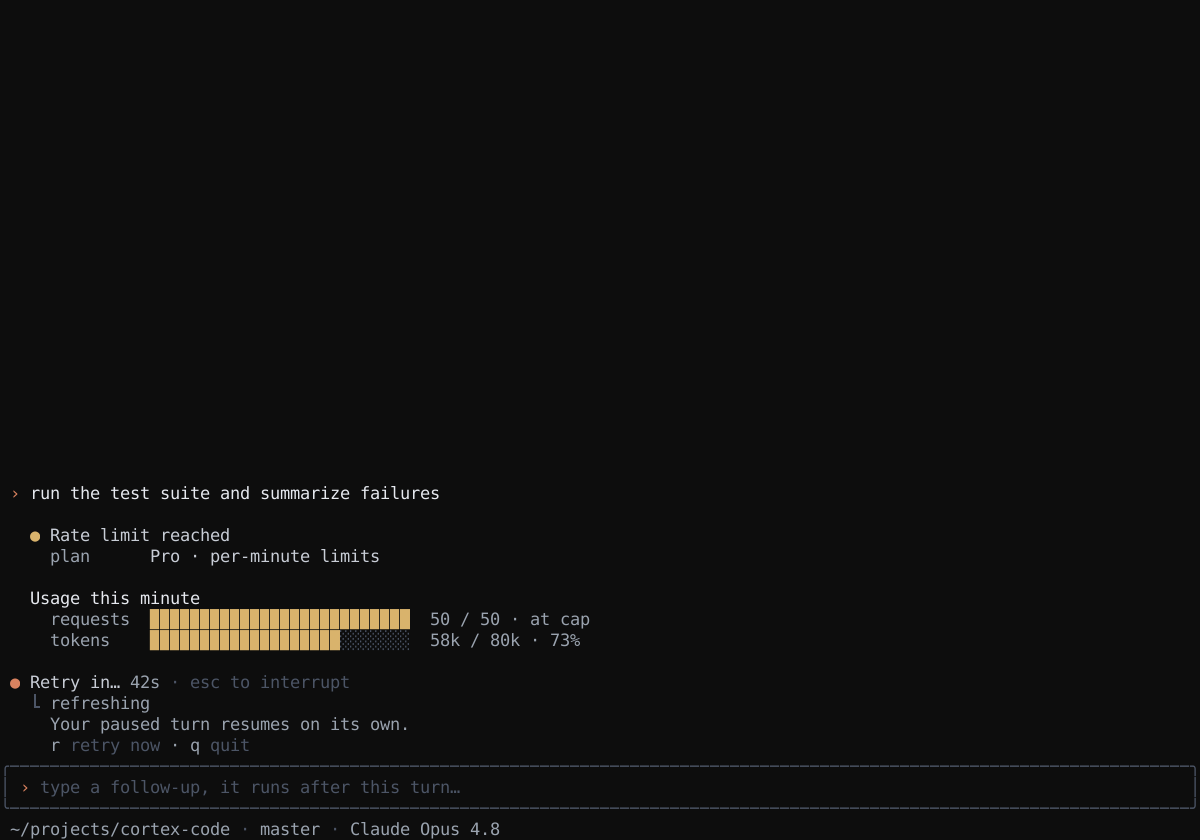
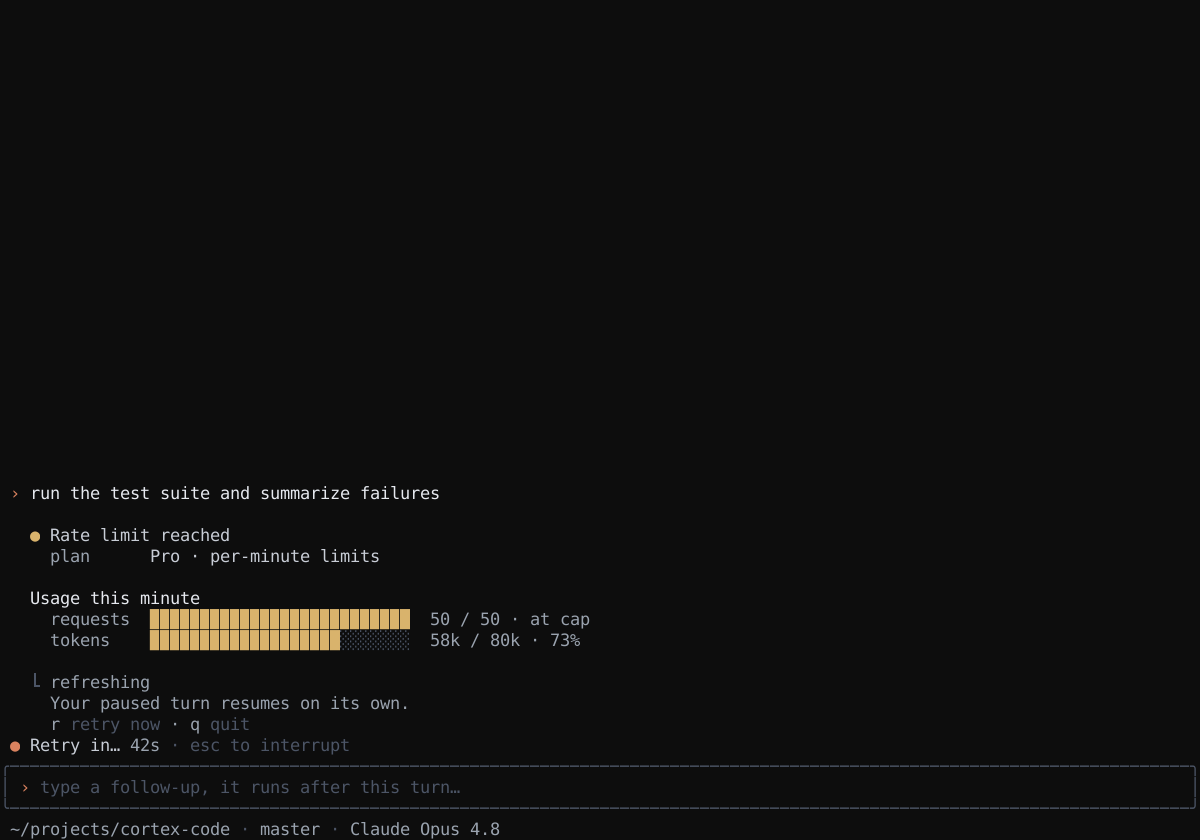
fix(mockups-v2): enforce working band adjacency

Changed region(s): [[0.0, 0.8048, 0.3392, 0.8976]]

diff --git a/tools-throwaway/mockup-harness/sweep_audit.py b/tools-throwaway/mockup-harness/sweep_audit.py
@@ -165,19 +165,19 @@ LIVE_ACTIVITY_CONSUMERS: dict[str, dict[str, Any]] = {
     },
     "orchestration/workflow-monitor": {
         "source_paths": ("screens/workflow_monitor.rs",),
-        "events": (("working_band", "Orchestrating", "4m12s", "band"),),
-        "owner": "band",
+        "events": (("inline_live_state", "Orchestrating", "4m12s", "none"),),
+        "owner": "inline",
         "verb": "Orchestrating",
         "activity": "Orchestrating",
-        "interrupt": "band",
+        "interrupt": "none",
     },
     "orchestration/workflow-monitor-failure": {
         "source_paths": ("screens/workflow_monitor.rs",),
-        "events": (("working_band", "Orchestrating", "4m12s", "band"),),
-        "owner": "band",
+        "events": (("inline_live_state", "Orchestrating", "4m12s", "none"),),
+        "owner": "inline",
         "verb": "Orchestrating",
         "activity": "Orchestrating",
-        "interrupt": "band",
+        "interrupt": "none",
     },
 }
 
@@ -214,7 +214,7 @@ KEY_LINE_ROLES: dict[str, dict[int, str]] = {
     "states/error-context": {36: "interactive_attached"},
     "states/error-network": {36: "failure_adjacent"},
     "states/interrupt": {35: "interactive_attached", 36: "interactive_attached", 37: "interactive_attached"},
-    "states/rate-limit": {36: "activity_attached"},
+    "states/rate-limit": {35: "activity_attached"},
     "states/share": {36: "interactive_attached"},
     "states/toasts": {3: "failure_adjacent"},
     "views/diff-viewer-staging": {1: "view_header", 6: "interactive_attached", 13: "interactive_attached", 22: "interactive_attached"},
@@ -772,12 +772,77 @@ def live_source_consumers(
     return consumers
 
 
-def working_bands(screen: dict[str, Any]) -> list[dict[str, Any]]:
-    return [
-        row
-        for row in screen["rows"]
-        if "…" in row["text"] and "esc to interrupt" in row["text"]
-    ]
+def bottom_frame(screen: dict[str, Any]) -> tuple[str, int | None]:
+    """Classify the status-adjacent frame from its rendered border geometry."""
+    rows = screen["rows"]
+    if len(rows) < 2:
+        return ("view", None)
+
+    bottom_index = len(rows) - 2
+    bottom = rows[bottom_index]["text"].strip()
+    if not (bottom.startswith("╰") and bottom.endswith("╯")):
+        return ("view", None)
+
+    top_index = next(
+        (
+            index
+            for index in range(bottom_index - 1, -1, -1)
+            if (
+                (text := rows[index]["text"].strip()).startswith("╭")
+                and text.endswith("╮")
+            )
+        ),
+        None,
+    )
+    if top_index is None:
+        return ("invalid_bottom_frame", None)
+
+    top = rows[top_index]["text"].strip()
+    titleless = all(character == "─" for character in top[1:-1])
+    prompt_row = rows[top_index + 1] if top_index + 1 < bottom_index else None
+    has_accent_prompt = prompt_row is not None and any(
+        character == "›"
+        and (span := style_at(prompt_row, column)) is not None
+        and span["fg"] == ACCENT
+        for column, character in enumerate(prompt_row["text"])
+    )
+    if titleless and has_accent_prompt:
+        return ("composer", rows[top_index]["line"])
+    if not titleless:
+        return ("action", rows[top_index]["line"])
+    return ("invalid_bottom_frame", rows[top_index]["line"])
+
+
+def validate_working_band_geometry(
+    audit: Audit,
+    screen: dict[str, Any],
+    event_pairs: list[tuple[dict[str, Any], dict[str, Any]]],
+) -> None:
+    """Require event-derived bands to be the final row before a composer."""
+    bands = {
+        row["line"]: row
+        for event, row in event_pairs
+        if event.get("source") == "working_band"
+    }
+    if not bands:
+        return
+
+    frame, composer_top = bottom_frame(screen)
+    for band in bands.values():
+        if frame != "composer":
+            audit.fail(
+                screen["id"],
+                band["line"],
+                "live_activity",
+                f"working band requires a titleless composer frame, detected {frame}",
+            )
+        elif composer_top is None or band["line"] + 1 != composer_top:
+            audit.fail(
+                screen["id"],
+                band["line"],
+                "live_activity",
+                "working band is not the final transcript row before the composer",
+            )
 
 
 def canonical_elapsed_tokens(row: dict[str, Any]) -> list[str]:
@@ -1042,6 +1107,8 @@ def validate_live_activity(
                     f"live-shaped row maps to {len(matches)} render events",
                 )
 
+        validate_working_band_geometry(audit, screen, event_pairs)
+
         bands = [
             row
             for event, row in event_pairs
@@ -1221,6 +1288,21 @@ def run(report: dict[str, Any], source_root: Path | None, fixture_name: str | No
                 }
             },
         )
+    elif fixture_name == "cross-003-band-not-adjacent":
+        validate_live_activity(
+            audit,
+            screens,
+            None,
+            {
+                "fixtures/band-not-adjacent.txt": {
+                    "events": (("working_band", "Composing", "24s", "band"),),
+                    "owner": "band",
+                    "verb": "Composing",
+                    "activity": "Composing",
+                    "interrupt": "band",
+                }
+            },
+        )
     elif fixture_name == "cross-003-unlisted":
         validate_live_activity(
             audit,
@@ -1338,6 +1420,42 @@ def fixture(name: str) -> dict[str, Any]:
                     "rows": [
                         row(1, band, [span(0, len(band), ACCENT)]),
                         row(2, duplicate, [span(0, len(duplicate), MUTED)]),
+                        status,
+                    ],
+                }
+            ]
+        }
+    if name == "cross-003-band-not-adjacent":
+        band = " ● Composing… 24s · esc to interrupt"
+        composer_top = f"╭{'─' * 118}╮"
+        composer_prompt = f"│ › type a follow-up{' ' * 99}│"
+        composer_bottom = f"╰{'─' * 118}╯"
+        return {
+            "screens": [
+                {
+                    "id": "fixtures/band-not-adjacent.txt",
+                    "events": [
+                        {
+                            "source": "working_band",
+                            "verb": "Composing",
+                            "elapsed": "24s",
+                            "interrupt": "band",
+                        }
+                    ],
+                    "rows": [
+                        row(1, band, [span(0, 2, ACCENT), span(2, len(band))]),
+                        row(2, "   ordinary transcript row", [span(0, 26)]),
+                        row(3, composer_top, [span(0, len(composer_top), FAINT)]),
+                        row(
+                            4,
+                            composer_prompt,
+                            [
+                                span(0, 2, FAINT),
+                                span(2, 3, ACCENT),
+                                span(3, len(composer_prompt), FAINT),
+                            ],
+                        ),
+                        row(5, composer_bottom, [span(0, len(composer_bottom), FAINT)]),
                         status,
                     ],
                 }
@@ -1539,6 +1657,7 @@ def main() -> int:
         choices=(
             "cross-002",
             "cross-003-duplicate",
+            "cross-003-band-not-adjacent",
             "cross-003-unlisted",
             "cross-003-eventless-row",
             "cross-003-verb-mismatch",

diff --git a/tools-throwaway/mockup-harness/src/screens/workflow_monitor.rs b/tools-throwaway/mockup-harness/src/screens/workflow_monitor.rs
@@ -131,7 +131,11 @@ fn render_variant(f: &mut Frame, variant: MonitorVariant) {
             m("  ·  branch  "),
             t("workflow/wf-42/feat-api-routes"),
         ]),
-        chrome::working_band("Orchestrating", 252.0, Some("3 workers")),
+        Line::from(vec![
+            Span::raw("   "),
+            m(&chrome::inline_live_state("Orchestrating", 252.0)),
+            m(" · 3 workers"),
+        ]),
         Line::from(""),
         Line::from(vec![Span::raw("   "), m("wave scheduling · parallel metrics")]),
         chrome::rule_line(105),

diff --git a/tools-throwaway/mockup-harness/src/screens/rate_limit.rs b/tools-throwaway/mockup-harness/src/screens/rate_limit.rs
@@ -26,10 +26,10 @@ pub fn render(f: &mut Frame) {
         usage("requests", 50, 50, "50 / 50 · at cap"),
         usage("tokens", 58, 80, "58k / 80k · 73%"),
         Line::from(""),
-        chrome::working_band("Retry in", 42.0, None),
         chrome::refreshing_note(),
         detail(vec![m("Your paused turn resumes on its own.")]),
         detail(recovery),
+        chrome::working_band("Retry in", 42.0, None),
     ];
 
     chrome::transcript(f, body, lines);
